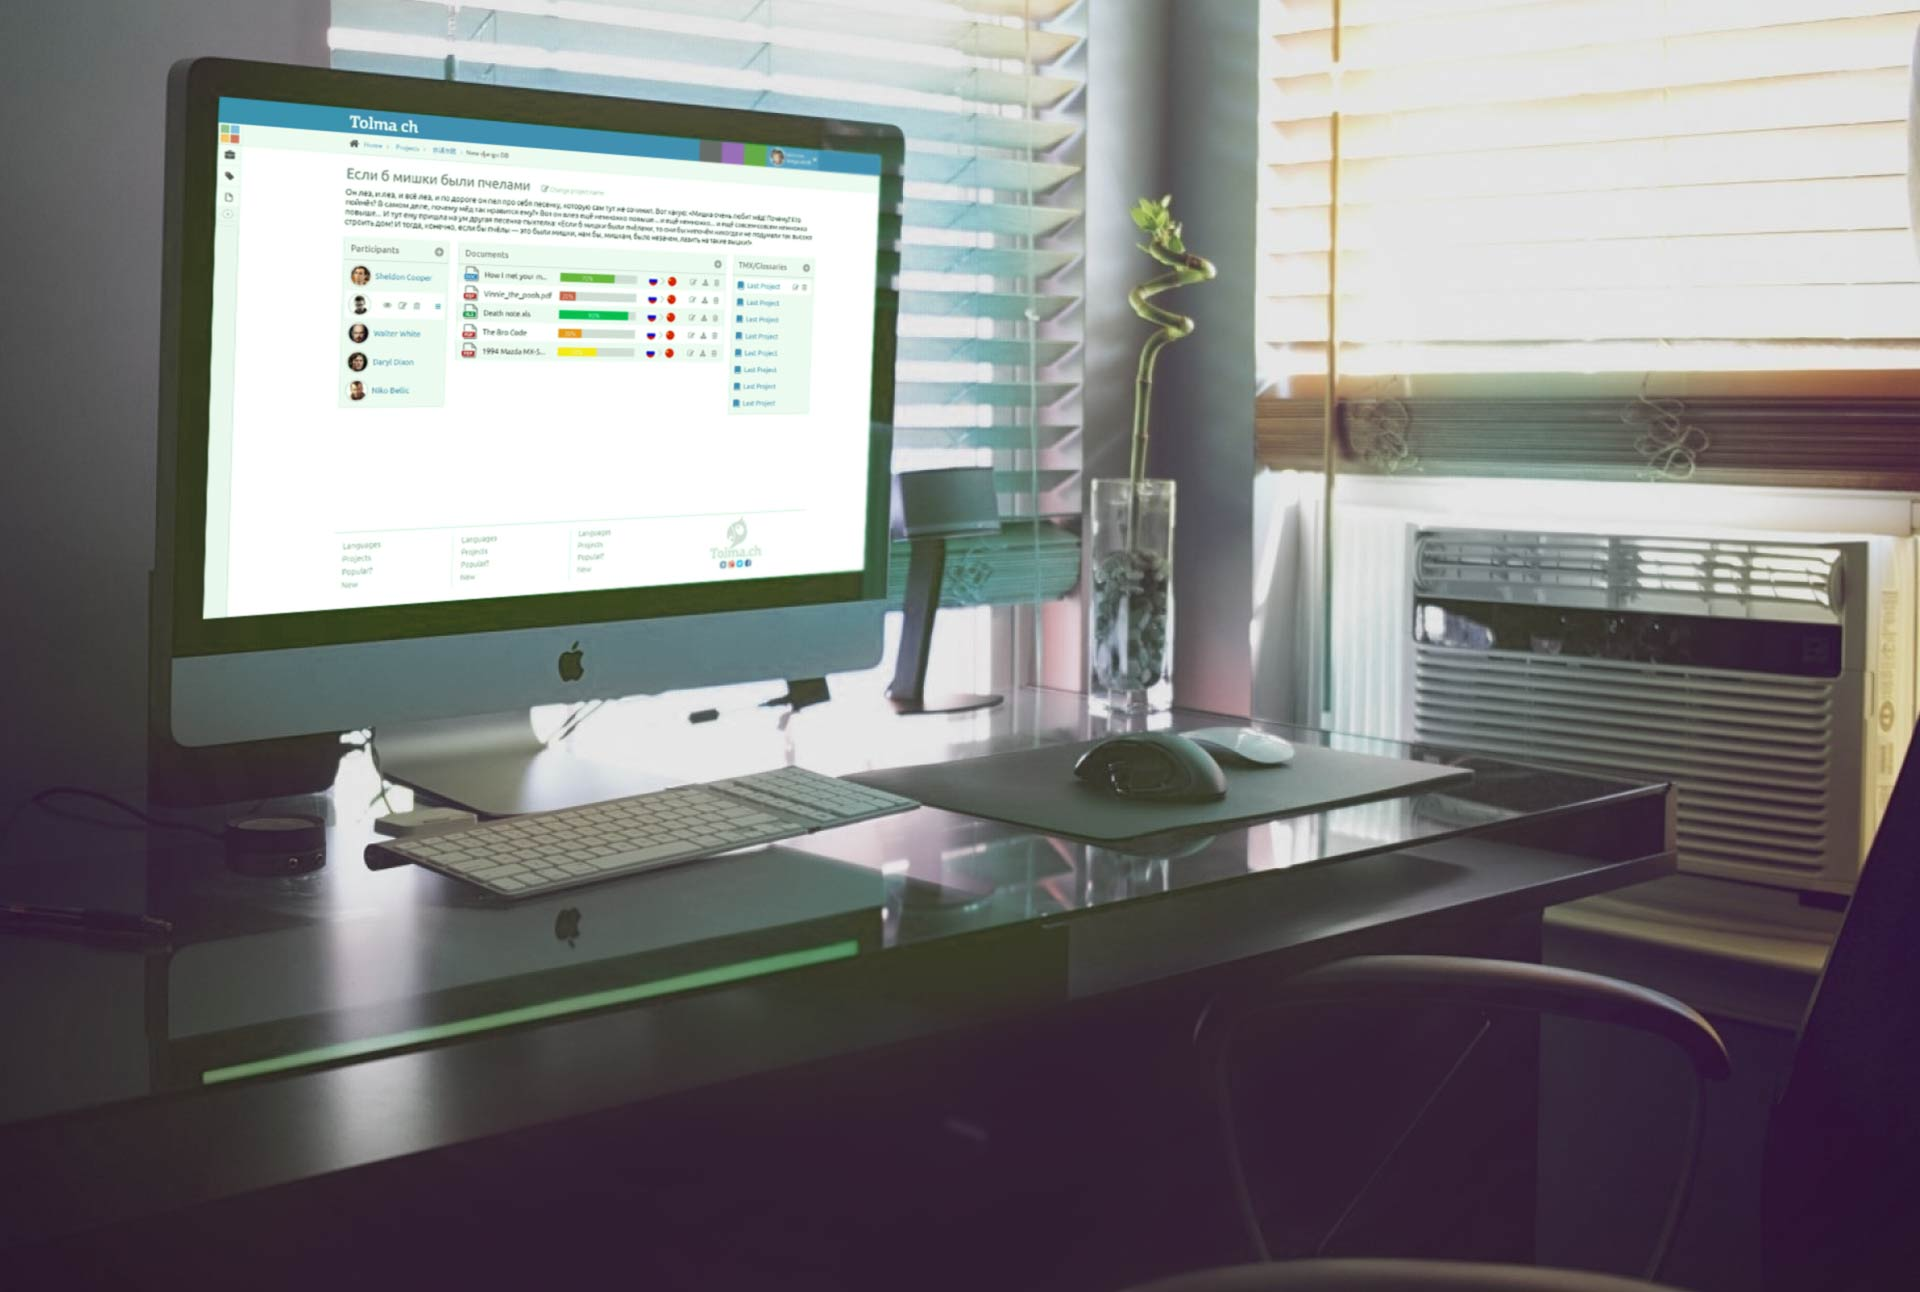
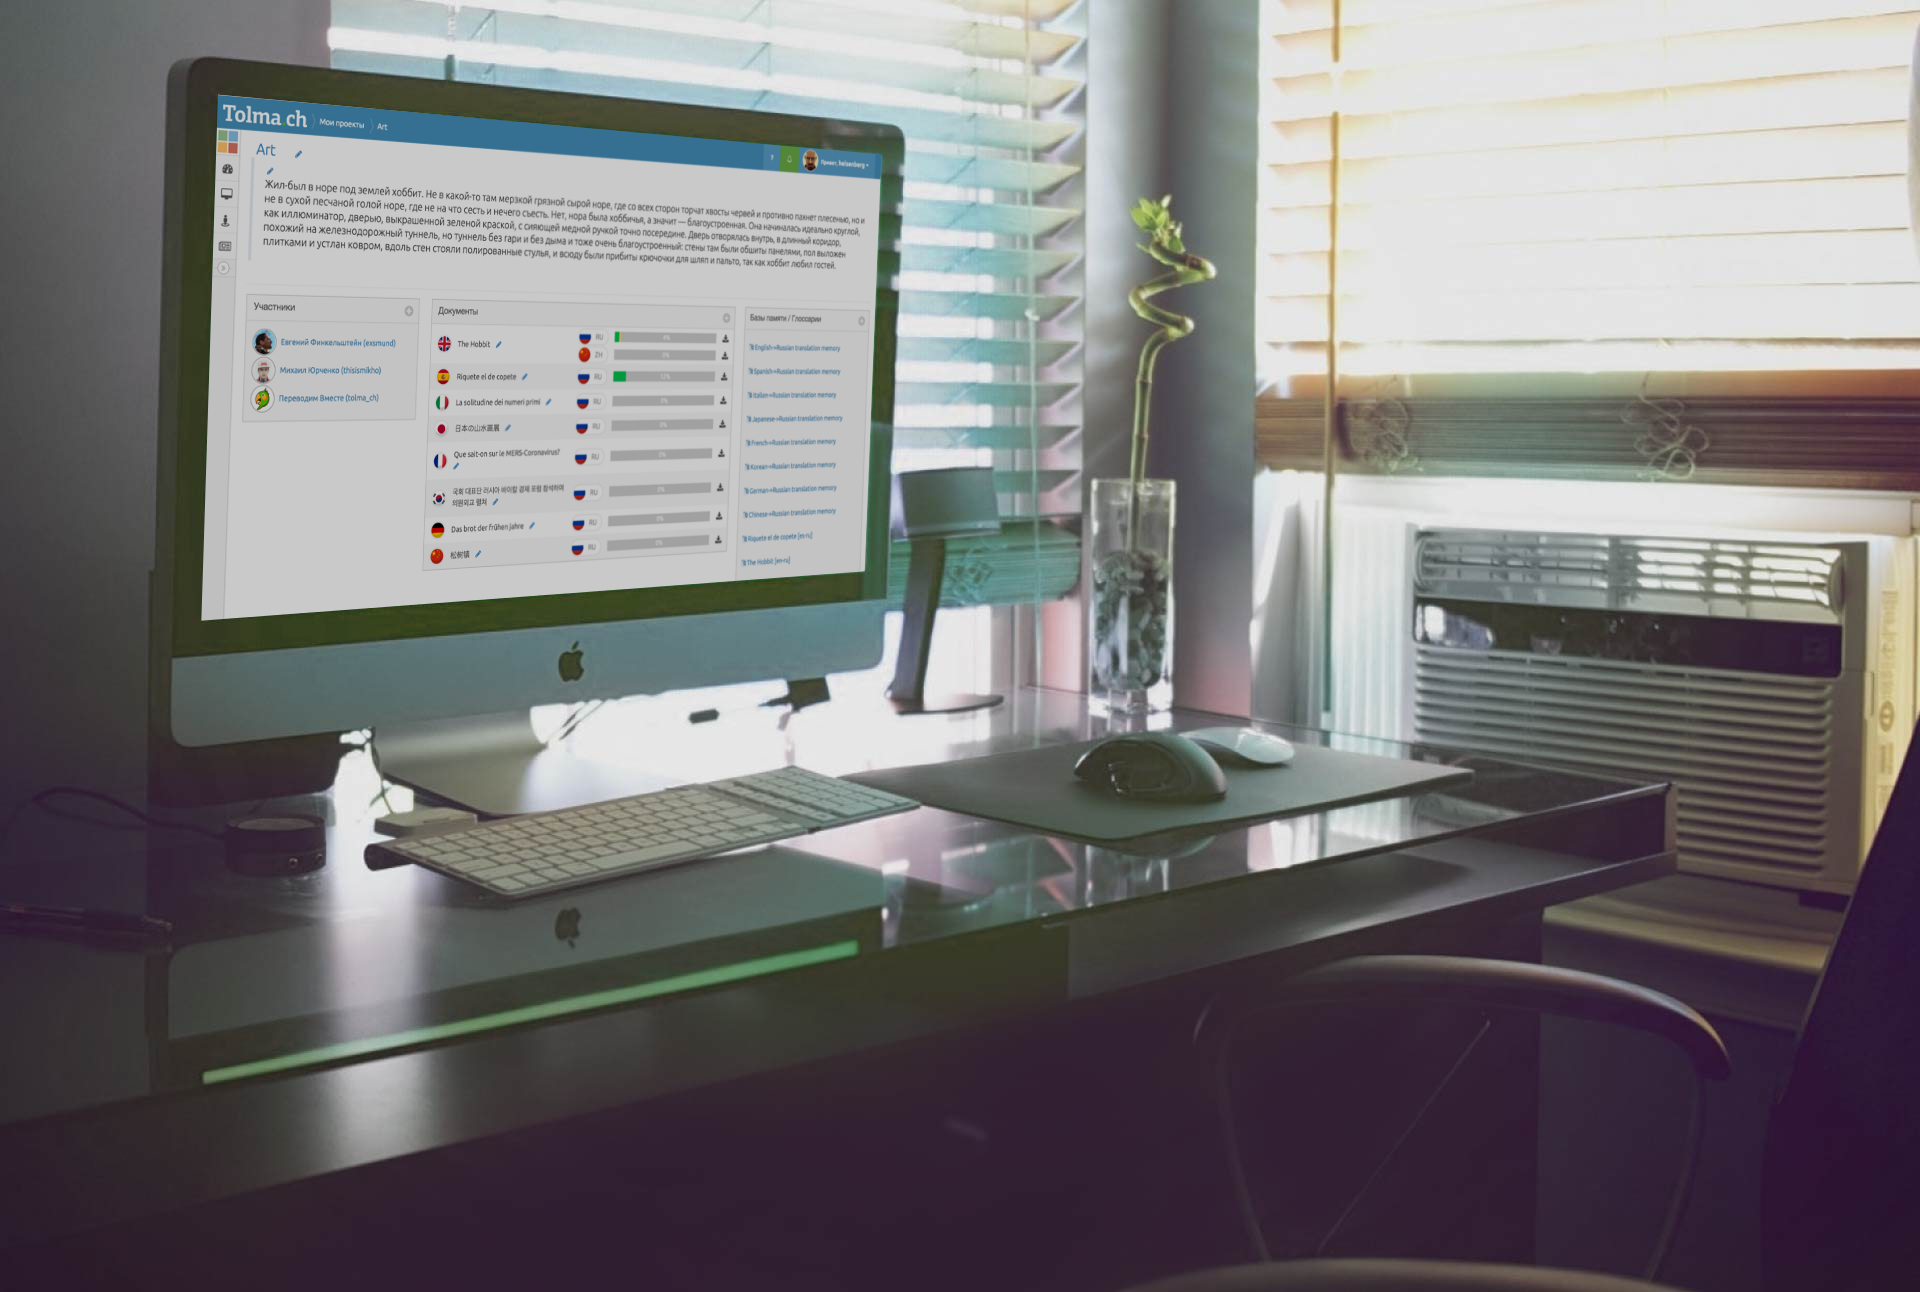
[imp] Landing page with russian texts finished

Changed region(s): [[0.0938, 0.0619, 0.4688, 0.4954]]

diff --git a/templates/tolmach/landing.html b/templates/tolmach/landing.html
@@ -1,4 +1,6 @@
 <!DOCTYPE html PUBLIC "-//W3C//DTD XHTML 1.0 Strict//EN" "http://www.w3.org/TR/xhtml1/DTD/xhtml1-strict.dtd">
+{% load i18n %}
+{% trans 'How it works' as how_works %}
 <html xmlns="http://www.w3.org/1999/xhtml" xmlns:svg="http://www.w3.org/2000/svg">
     <head>
         <meta xmlns="http://www.w3.org/1999/xhtml" http-equiv="Content-Type" content="text/html; charset=utf-8" />
@@ -51,7 +53,7 @@
                 <div class="languages-poster__logo"></div>
             </div>
             <div class="container">
-                <h1>Что такое толмач?</h1>
+                <h1>Что такое «Толмач»?</h1>
                 <p class="center">«Толмач» - это интергированная среда перевода, сервис, объединяющий в себе все необходимые переводчику инструменты в одном месте — глоссарии, базы памяти перевода, словари, машинные переводы и многое другое. Работу с документами «Толмач» тоже возьмёт на себя. Всё, что от вас потребуется — это загрузить документ в систему, а извлечение полезного текста и разделение его на удобные для перевода фрагменты будет произведено автоматически.</p>
                 <div class="gap3"></div>
                 <div class="row">
@@ -78,7 +80,7 @@
             <div class="container">
                 <div class="gap4"></div>
                 <div class="gap4"></div>
-                <h1>Как это работает:</h1>
+                <h1>{{ how_works }}:</h1>
                 <div class="slider">
                     <div class="slider__img">
                         <div class="slider-img slider-img_1">
@@ -93,11 +95,26 @@
                         <div class="slider-img slider-img_4">
                             <img src="/static/img/landing/project_tm_glossaries.png" alt="">
                         </div>
+                        <div class="slider-img slider-img_5">
+                            <img src="/static/img/landing/translation_page.png" alt="">
+                        </div>
+                        <div class="slider-img slider-img_6">
+                            <img src="/static/img/landing/translation_page_trans.png" alt="">
+                        </div>
+                        <div class="slider-img slider-img_7">
+                            <img src="/static/img/landing/translation_tags.png" alt="">
+                        </div>
+                        <div class="slider-img slider-img_8">
+                            <img src="/static/img/landing/translation_tags_mt.png" alt="">
+                        </div>
+                        <div class="slider-img slider-img_9">
+                            <img src="/static/img/landing/translation_tags_dict.png" alt="">
+                        </div>
                     </div>
                     <div class="slider__btns">
                         <p class="center">
                             <span class="slider-btn" onclick="prevSlide()"><i class="fa fa-angle-left"></i></span>
-                            <span class="margered"><span id="slideIndex">1</span> из <span id="slidesCount">3</span></span>
+                            <span class="margered"><span id="slideIndex">1</span> из <span id="slidesCount">9</span></span>
                             <span class="slider-btn slider-btn_active" onclick="nextSlide()"><i class="fa fa-angle-right"></i></span>
                         </p>
                     </div>
@@ -105,25 +122,67 @@
                         <div class="slider-text slider-text_1">
                             <h2>Личная страница</h2>
                             <p>
-                                Это личная страница пользователя. Вам не нужно заполнять нудных анкет при регистрации - мы сами все перенесем из Вашей социалочки.
+                                Это личная страница пользователя. Вам не нужно заполнять нудных анкет при регистрации - мы сами все перенесем из Вашего профиля в социальной сети.
                             </p>
                             <p>
-                                Здесь содержится список проектов, в которых вы участвуете, а также статистика, отображающая Ваш опыт переводчика: тут и общее количество переведенных Вами фрагментов текста, и графики, показывающие, с каких языков на какие вы предпочитаете переводить, и полный список Ваших проектов.
+                                Здесь содержится статистика, отображающая Ваш опыт как переводчика: тут и общее количество переведенных Вами фрагментов текста, и графики, показывающие, с каких языков на какие вы предпочитаете переводить, и полный список Ваших проектов.
                             </p>
                         </div>
                         <div class="slider-text slider-text_2">
                             <h2>Коллективные переводы</h2>
                             <p>
-                                Теперь нескольким переводчикам можно будет комфортно работать над одним документом одновременно — разделять ответственность за отдельные фрагменты текста между разными переводчиками, предлагать разные варианты переводов одних и тех же мест, выбирая, в итоге, наиболее качественные.
+                                Теперь нескольким переводчикам можно комфортно работать над одним документом одновременно — разделять ответственность за отдельные фрагменты текста между разными переводчиками, предлагать разные варианты переводов одних и тех же мест, выбирая, в итоге, наиболее качественные.
                             </p>
                             <p>
-                                Редактор сможет наблюдать весь процесс вживую — ему не придётся больше тратить огромное количество времени на ожидание результатов перевода, а переводчики смогут получить обратную связь по качеству сделанного перевода буквально сразу после его публикации.
+                                Редактор может наблюдать весь процесс вживую — ему не придётся больше тратить огромное количество времени на ожидание результатов перевода, а переводчики смогут получить обратную связь по качеству сделанного перевода буквально сразу после его публикации.
                             </p>
                         </div>
                         <div class="slider-text slider-text_3">
-                            <h2>Третий слайд</h2>
+                            <h2>Многоязычные переводы</h2>
                             <p>
-                                Текст.
+                                Нет необходимости загружать один и тот же документ по несколько раз - можно переводить один и тот же на несколько языков сразу.
+                            </p>
+                        </div>
+                        <div class="slider-text slider-text_4">
+                            <h2>Базы памяти и глоссарии</h2>
+                            <p>
+                                Базы памяти перевода помогут вам быстрее переводить схожие документы, повторно используя уже сделанные ранее переводы.
+                            </p>
+                            <p>
+                                Правильно составленные глоссарии помогут соблюсти единообразие стиля перевода, вне зависимости от того, работаете ли вы один или в группе.
+                            </p>
+                        </div>
+                        <div class="slider-text slider-text_5">
+                            <h2>Только перевод, ничего лишнего</h2>
+                            <p>
+                                Мы приложили немало усилий, чтобы сделать интерфейс «Толмача» как можно более лёгким и минималистичным.
+                            </p>
+                            <p>
+                                И, несмотря на то, что мы уже добились значительных результатов, мы постоянно ищем новые возможности сделать работу с «Толмачом» ещё более простой и удобной.
+                            </p>
+                        </div>
+                        <div class="slider-text slider-text_6">
+                            <h2>Наглядный прогресс</h2>
+                            <p>
+                                Оценивайте цельность и согласованность уже переведённого текста не отвлекаясь от процесса перевода, буквально нажатием одной кнопки.
+                            </p>
+                        </div>
+                        <div class="slider-text slider-text_7">
+                            <h2>Сложное форматирование</h2>
+                            <p>
+                                Документы со сложным форматированием тоже не проблема для «Толмача». Вам не нужно думать о том, каким образом был отформатирован текст в оригинальном документе. Был ли он полужирным, наклонным или подчёркнутым. Всё это совершенно не важно в процессе перевода и не должно отвлекать вас от самого главного. А чтобы переведённый документ сохранял форматирование, схожее с оригинальным, «Толмач» подскажет, где сделать нужные пометки.
+                            </p>
+                        </div>
+                        <div class="slider-text slider-text_8">
+                            <h2>Машинные переводы</h2>
+                            <p>
+                                Несмотря на то, что машинные переводы по качеству выдаваемого текста ещё далеки от совершенства, они становятся хорошим подспорьем на начальных этапах перевода. Они помогают быстро сделать первичный, очень черновой перевод, на основе которого впоследствии строится финальный, гораздо более качественный перевод.
+                            </p>
+                        </div>
+                        <div class="slider-text slider-text_9">
+                            <h2>Словари</h2>
+                            <p>
+                                Чтобы не прерывать процесс перевода при встрече неизвестного слова, можно возпользоваться встроенными в «Толмач» словарями. Словарная база не стоит на месте и постоянно пополняется.
                             </p>
                         </div>
                     </div>

diff --git a/tolmach/settings.py b/tolmach/settings.py
@@ -253,7 +253,7 @@ DOCUMENT_FILE_SIZE = 104857600
 GLOBAL_DOCUMENTS_DIR = ""
 
 ELASTIC_LIST = [
-    {"host": "localhost", "port": 9200}
+    {"host": "localhost", "port": 9200, "timeout": 30}
 ]
 
 try:
